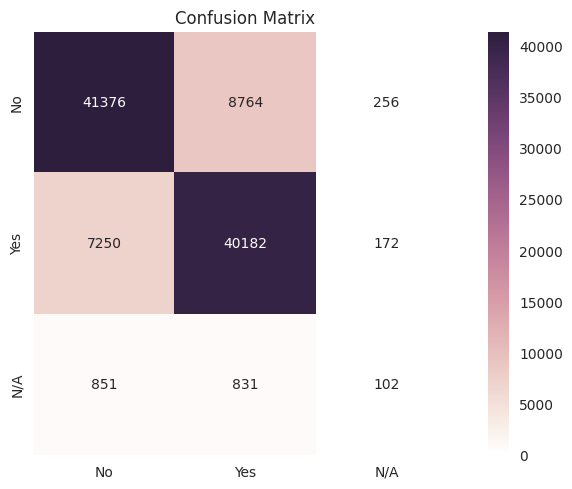
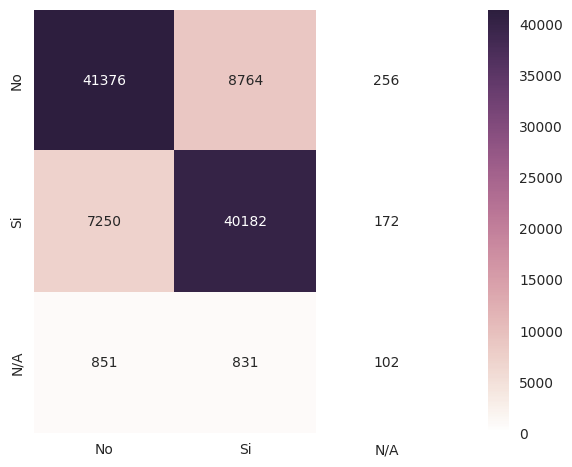
att visualizer

diff --git a/code/Oracle/visualize_att/visualizer.py b/code/Oracle/visualize_att/visualizer.py
@@ -31,12 +31,12 @@ use_cuda = torch.cuda.is_available()
 if __name__ == '__main__':
     parser = argparse.ArgumentParser()
     parser.add_argument("-data_dir", type=str, default="data", help='Data Directory')
-    parser.add_argument("-config", type=str, default="small", help='Config type [big, small]')
+    parser.add_argument("-config", type=str, default="big", help='Config type [big, small]')
     parser.add_argument("-img_feat", type=str, default="rss", help='Select "vgg" or "res" as image features')
     parser.add_argument("-exp_name", type=str, default="exp", help='Experiment Name')
     parser.add_argument("-bin_name", type=str, default='', help='Name of the trained model file')
-    parser.add_argument("-load_bin_path", type=str)
-    parser.add_argument("-set", type=str, default="val")
+    parser.add_argument("-load_bin_path", type=str, default='./bin/Oracle/lxmert_big')
+    parser.add_argument("-set", type=str, default="test")
 
     args = parser.parse_args()
     config_file = 'config/Oracle/config_small.json'
@@ -163,16 +163,23 @@ if __name__ == '__main__':
         pin_memory=exp_config['use_cuda']
     )
 
-    wannasee = '68445'
+    torch.set_grad_enabled(False)
+    model.eval()
+
+    wannasee = ['64336', '64551', '68445', '74973']
     turn = 0
+    lastid = -1
 
     stream = tqdm.tqdm(enumerate(dataloader), total=len(dataloader), ncols=100)
 
     for i_batch, sample in stream:
         #print(dataset_test.oracle_data[idx])
         #sample = dataset_test.__getitem__(idx)
-        if sample['game_id'][0] == wannasee:
+        if sample['game_id'][0] in wannasee:
             game_id = sample['game_id'][0]
+            if game_id != lastid:
+                turn = 0
+            lastid = game_id
             questions, answers, crop_features, visual_features, spatials, obj_categories, lengths = \
             sample['question'], sample['answer'], sample['crop_features'], sample['img_features'], sample['spatial'], \
             sample['obj_cat'], sample['length']
@@ -191,7 +198,8 @@ if __name__ == '__main__':
                  Variable(sample['train_features']['input_mask']),
                  Variable(sample['train_features']['segment_ids'])
             )
-
+            #print(model.module.lxrt_encoder.model.bert.encoder.x_layers[0].lang_att_map[0].detach().cpu().numpy())
+            #exit(1)
             datapoint = 0
             
             try:
@@ -279,7 +287,7 @@ if __name__ == '__main__':
                         sample["game_id"][datapoint], turn, layer, " ".join(tokenized_history).replace("/", "_"),
                         tok2ans[sample["answer"][datapoint].item()].replace("/", "_")), bbox_inches='tight', pad_inches=0.5)
                 plt.close()
-                turn+=1
+            turn+=1
 
 
     

diff --git a/code/Oracle/lxmert/src/lxrt/modeling.py b/code/Oracle/lxmert/src/lxrt/modeling.py
@@ -30,6 +30,7 @@ from io import open
 import torch
 from torch import nn
 from torch.nn import CrossEntropyLoss, SmoothL1Loss
+from torch.autograd import Variable
 
 from .file_utils import cached_path
 
@@ -185,7 +186,6 @@ class BertConfig(object):
                  type_vocab_size=2,
                  initializer_range=0.02):
         """Constructs BertConfig.
-
         Args:
             vocab_size_or_config_json_file: Vocabulary size of `inputs_ids` in `BertModel`.
             hidden_size: Size of the encoder layers and the pooler layer.
@@ -450,8 +450,6 @@ class LXRTXLayer(nn.Module):
         self.lang_output = BertOutput(config)
         self.visn_inter = BertIntermediate(config)
         self.visn_output = BertOutput(config)
-        self.lang_att_map = list()
-        self.visn_att_map = list()
 
     def cross_att(self, lang_input, lang_attention_mask, visn_input, visn_attention_mask):
         # Cross Attention
@@ -714,7 +712,6 @@ class BertPreTrainedModel(nn.Module):
         """
         Instantiate a BertPreTrainedModel from a pre-trained model file or a pytorch state dict.
         Download and cache the pre-trained model file if needed.
-
         Params:
             pretrained_model_name_or_path: either:
                 - a str with the name of a pre-trained model to load selected in the list of:
@@ -1011,7 +1008,6 @@ class LXRTFeatureExtraction(BertPreTrainedModel):
     """
     def __init__(self, config, mode='lxr'):
         """
-
         :param config:
         :param mode:  Number of visual layers
         """
@@ -1031,4 +1027,3 @@ class LXRTFeatureExtraction(BertPreTrainedModel):
             return feat_seq, pooled_output
         elif 'l' in self.mode or 'r' in self.mode:
             return feat_seq
-

diff --git a/code/Oracle/utils/evaluate_byclass.py b/code/Oracle/utils/evaluate_byclass.py
@@ -60,6 +60,8 @@ def count_and_rate(game, q_max_miss=0):
                 attributes['color'].append(que)
             if '<shape>' in cat:
                 attributes['shape'].append(que)
+                print('spatial: ', que['question'])
+                exit(1)
             if '<size>' in cat:
                 attributes['size'].append(que)
             if '<texture>' in cat:
@@ -71,11 +73,14 @@ def count_and_rate(game, q_max_miss=0):
 
             if '<object>' in cat:
                 entities['object'].append(que)
+
             if '<super-category>' in cat:
                 entities['super-category'].append(que)
 
+
             if cat == '<NA>':
                 na_type.append(que)
+
     
     print('ACCURACY: ', ok/todo)
 
@@ -106,7 +111,7 @@ def count_and_rate(game, q_max_miss=0):
     correct = sum([q['ans'] == q['model_ans'] for q in na_type])
     acc = 0
     try:
-        acc = correct/qtype_count*100
+        acc = correct/len(na_type)*100
     except:
         pass
     print('NA: {:.2f}'.format(acc), ' number of q : ', len(na_type))

diff --git a/code/Oracle/utils/attpics.py b/code/Oracle/utils/attpics.py
@@ -64,7 +64,7 @@ def calculate_accuracy_oracle_all(predictions, targets):
 if __name__ == '__main__':
     parser = argparse.ArgumentParser()
     parser.add_argument("-data_dir", type=str, default="data", help='Data Directory')
-    parser.add_argument("-config", type=str, default="small", help='Config type [big, small]')
+    parser.add_argument("-config", type=str, default="big", help='Config type [big, small]')
     parser.add_argument("-img_feat", type=str, default="rss", help='Select "vgg" or "res" as image features')
     parser.add_argument("-exp_name", type=str, default="exp", help='Experiment Name')
     parser.add_argument("-bin_name", type=str, default='', help='Name of the trained model file')
@@ -230,7 +230,7 @@ if __name__ == '__main__':
 
     num_locations = 0
     num_q = defaultdict(int)
-    selected_items = list(annotations.keys())
+    selected_items = ['64336', '64551', '68445', '74973']
 
     pos = 0
     last_game_id = None

diff --git a/code/Oracle/utils/evaluate_minitest.py b/code/Oracle/utils/evaluate_minitest.py
@@ -17,8 +17,8 @@ if __name__ == "__main__":
 
     l = args.models.split(',')
 
-    full = pd.read_csv('histdep.csv', keep_default_na=False, index_col=[0])
-
+    full = pd.read_csv('histdep2.csv', keep_default_na=False, index_col=[0])
+    full = full.loc[full["inverse answer without history"]=='1']
     for model in l:
         filename = model+'testpredictions.csv'
         data = pd.read_csv(os.path.join(os.getcwd(),filename), keep_default_na=False)
@@ -42,7 +42,7 @@ if __name__ == "__main__":
                     typeoks[idx] += (row['GT Answer'].lower() == row[model].lower())
 
         print('MODEL: ', model)
-        print('ACCURACY FOR THE MINI TEST SET IS : ', ok/tot)
+        print('ACCURACY FOR THE MINI TEST SET IS : ', ok/tot, ' amount of q is: ', tot)
         for idx, t in enumerate(types):
             print('ACURACCY FOR TYPE ', t, ': ', typeoks[idx]/typetots[idx], 'FORMULA: ', typeoks[idx], '/', typetots[idx])
 

diff --git a/code/Oracle/utils/getConfMatrix.py b/code/Oracle/utils/getConfMatrix.py
@@ -57,8 +57,8 @@ if __name__ == "__main__":
     #print(matrix)
 
     df_cm = pd.DataFrame(matrix, 
-    index = [ 'No', 'Yes', 'N/A'],
-    columns = [ 'No', 'Yes', 'N/A'])
+    index = [ 'No', 'Si', 'N/A'],
+    columns = [ 'No', 'Si', 'N/A'])
 
     fig = plt.figure()
 
@@ -71,9 +71,9 @@ if __name__ == "__main__":
 
     res = sn.heatmap(df_cm, annot=True, vmin=0.0, vmax=matrix.max(), fmt='.0f', cmap=cmap)
 
-    plt.yticks([0.5,1.5,2.5], [ 'No', 'Yes', 'N/A'],va='center')
+    plt.yticks([0.5,1.5,2.5], [ 'No', 'Si', 'N/A'],va='center')
 
-    plt.title('Confusion Matrix')
+    #plt.title('Confusion Matrix')
 
     plt.savefig('confusion_matrix_of_'+args.data[:-4]+'.png', dpi=100, bbox_inches='tight' )
 
